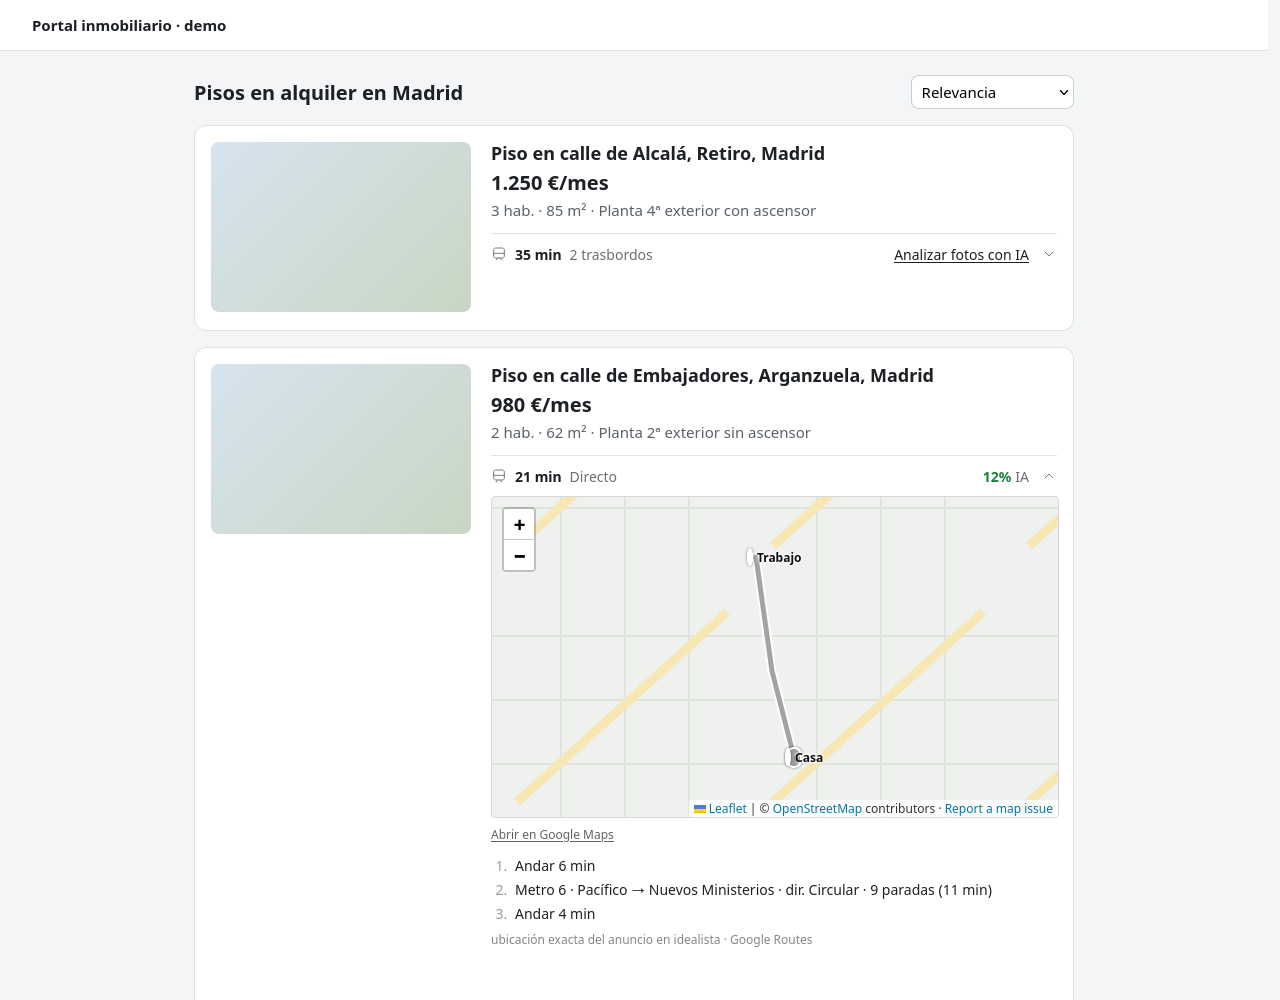
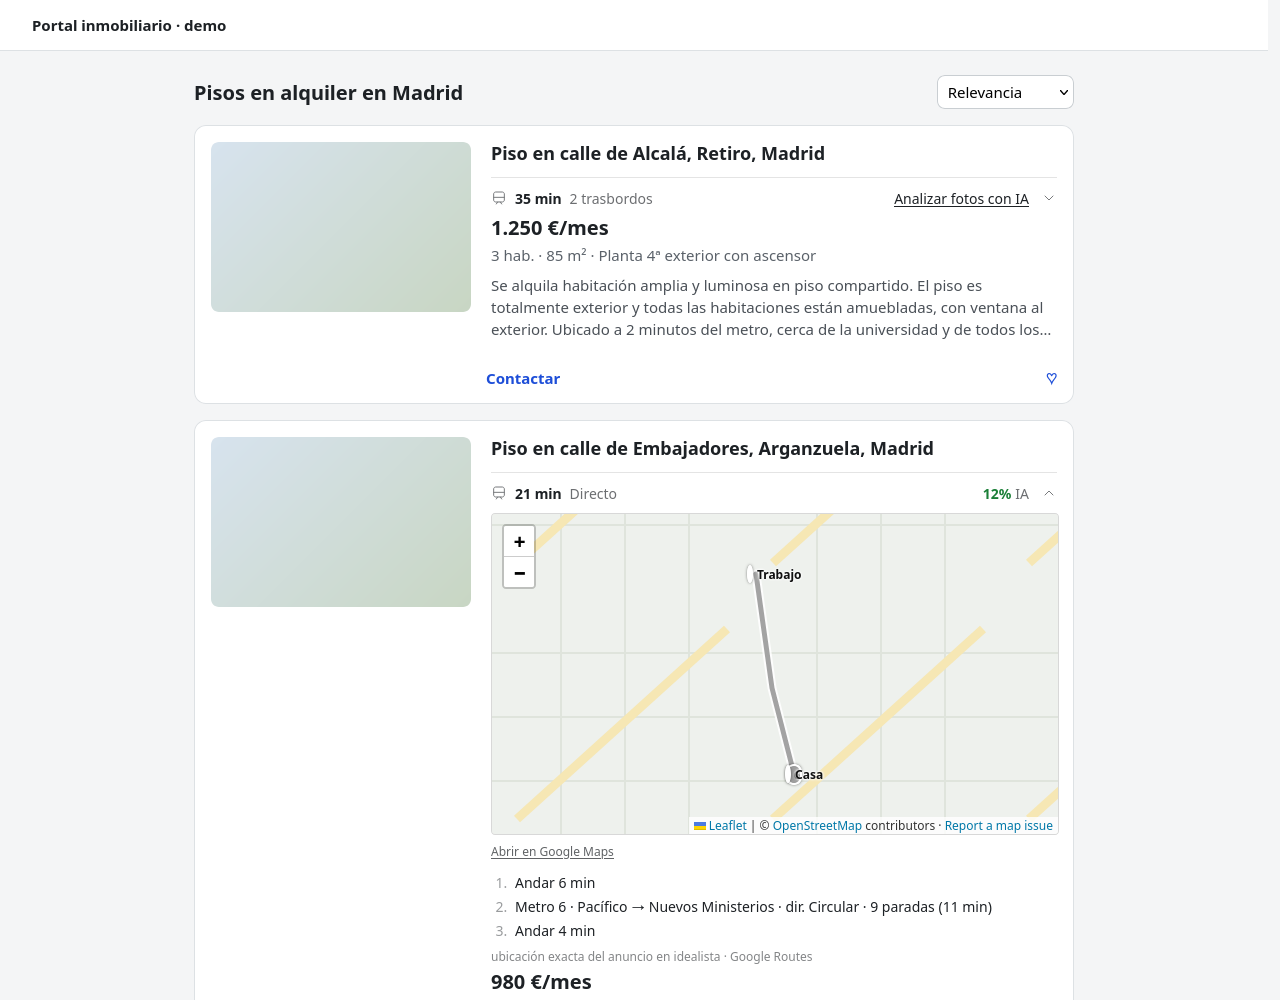
Reserve room for the card's footer so expanded text no longer overlaps Contactar
The card's own bottom row is pinned to its bottom edge; with the card growing to fit our row the description ran into it. The space is now reserved on the card instead of on the small title container, which also removes a blank gap under the commute row. The screenshot mock page reproduces the layout.

diff --git a/tools/screenshots/results.html b/tools/screenshots/results.html
@@ -7,24 +7,22 @@ header{background:#fff;border-bottom:1px solid #dde1e4;padding:14px 32px;font-we
 main{max-width:880px;margin:24px auto;padding:0 24px}
 .bar{display:flex;justify-content:space-between;align-items:center;margin-bottom:16px}.bar h1{font-size:20px;margin:0}
 select{font:inherit;padding:6px 10px;border:1px solid #c9ced2;border-radius:8px;background:#fff}
-article.item{display:flex;gap:20px;background:#fff;border:1px solid #dde1e4;border-radius:12px;padding:16px;margin-bottom:16px}
+article.item{position:relative;display:flex;gap:20px;background:#fff;border:1px solid #dde1e4;border-radius:12px;padding:16px;margin-bottom:16px}
 .pic{flex:none;width:260px;height:170px;border-radius:8px;background:linear-gradient(135deg,#d7e3ee,#c8d6c3)}
-.item-info-container{flex:1;min-width:0}.item-link{font-size:18px;font-weight:600;color:#1d2125;text-decoration:none}
+.col{flex:1;min-width:0}.item-link{font-size:18px;font-weight:600;color:#1d2125;text-decoration:none}
+.desc{margin-top:8px;color:#4a5057;display:-webkit-box;-webkit-line-clamp:3;-webkit-box-orient:vertical;overflow:hidden}
+.foot{position:absolute;left:291px;right:16px;bottom:14px;display:flex;justify-content:space-between;color:#1d4ed8;font-weight:600}
 .price{font-size:20px;font-weight:700;margin:6px 0}.det{color:#5a6169}
 </style></head><body>
 <header>Portal inmobiliario · demo</header>
 <main><div class="bar"><h1>Pisos en alquiler en Madrid</h1>
 <select aria-label="Ordenar"><option>Relevancia</option><option>Más recientes</option><option>Más baratos</option></select></div>
-<article class="item" data-element-id="105000001"><div class="pic"></div><div class="item-info-container">
-<a class="item-link" href="/inmueble/105000001/" title="Piso en calle de Alcalá, Retiro, Madrid">Piso en calle de Alcalá, Retiro, Madrid</a>
-<div class="price">1.250 €/mes</div><div class="det">3 hab. · 85 m² · Planta 4ª exterior con ascensor</div></div></article>
-<article class="item" data-element-id="105000002"><div class="pic"></div><div class="item-info-container">
-<a class="item-link" href="/inmueble/105000002/" title="Piso en calle de Embajadores, Arganzuela, Madrid">Piso en calle de Embajadores, Arganzuela, Madrid</a>
-<div class="price">980 €/mes</div><div class="det">2 hab. · 62 m² · Planta 2ª exterior sin ascensor</div></div></article>
-<article class="item" data-element-id="105000003"><div class="pic"></div><div class="item-info-container">
-<a class="item-link" href="/inmueble/105000003/" title="Piso en calle de Bravo Murillo, Tetuán, Madrid">Piso en calle de Bravo Murillo, Tetuán, Madrid</a>
-<div class="price">1.100 €/mes</div><div class="det">2 hab. · 70 m² · Planta 5ª exterior con ascensor</div></div></article>
-<article class="item" data-element-id="105000004"><div class="pic"></div><div class="item-info-container">
-<a class="item-link" href="/inmueble/105000004/" title="Piso en calle de Segovia, Centro, Madrid">Piso en calle de Segovia, Centro, Madrid</a>
-<div class="price">1.490 €/mes</div><div class="det">3 hab. · 92 m² · Planta 3ª interior con ascensor</div></div></article>
+<article class="item" data-element-id="105000001"><div class="pic"></div><div class="col"><div class="item-info-container"><a class="item-link" href="/inmueble/105000001/" title="Piso en calle de Alcalá, Retiro, Madrid">Piso en calle de Alcalá, Retiro, Madrid</a></div>
+<div class="price">1.250 €/mes</div><div class="det">3 hab. · 85 m² · Planta 4ª exterior con ascensor<p class="desc">Se alquila habitación amplia y luminosa en piso compartido. El piso es totalmente exterior y todas las habitaciones están amuebladas, con ventana al exterior. Ubicado a 2 minutos del metro, cerca de la universidad y de todos los servicios.</p></div></div><div class="foot"><span>Contactar</span><span>♡</span></div></article>
+<article class="item" data-element-id="105000002"><div class="pic"></div><div class="col"><div class="item-info-container"><a class="item-link" href="/inmueble/105000002/" title="Piso en calle de Embajadores, Arganzuela, Madrid">Piso en calle de Embajadores, Arganzuela, Madrid</a></div>
+<div class="price">980 €/mes</div><div class="det">2 hab. · 62 m² · Planta 2ª exterior sin ascensor<p class="desc">Se alquila habitación amplia y luminosa en piso compartido. El piso es totalmente exterior y todas las habitaciones están amuebladas, con ventana al exterior. Ubicado a 2 minutos del metro, cerca de la universidad y de todos los servicios.</p></div></div><div class="foot"><span>Contactar</span><span>♡</span></div></article>
+<article class="item" data-element-id="105000003"><div class="pic"></div><div class="col"><div class="item-info-container"><a class="item-link" href="/inmueble/105000003/" title="Piso en calle de Bravo Murillo, Tetuán, Madrid">Piso en calle de Bravo Murillo, Tetuán, Madrid</a></div>
+<div class="price">1.100 €/mes</div><div class="det">2 hab. · 70 m² · Planta 5ª exterior con ascensor<p class="desc">Se alquila habitación amplia y luminosa en piso compartido. El piso es totalmente exterior y todas las habitaciones están amuebladas, con ventana al exterior. Ubicado a 2 minutos del metro, cerca de la universidad y de todos los servicios.</p></div></div><div class="foot"><span>Contactar</span><span>♡</span></div></article>
+<article class="item" data-element-id="105000004"><div class="pic"></div><div class="col"><div class="item-info-container"><a class="item-link" href="/inmueble/105000004/" title="Piso en calle de Segovia, Centro, Madrid">Piso en calle de Segovia, Centro, Madrid</a></div>
+<div class="price">1.490 €/mes</div><div class="det">3 hab. · 92 m² · Planta 3ª interior con ascensor<p class="desc">Se alquila habitación amplia y luminosa en piso compartido. El piso es totalmente exterior y todas las habitaciones están amuebladas, con ventana al exterior. Ubicado a 2 minutos del metro, cerca de la universidad y de todos los servicios.</p></div></div><div class="foot"><span>Contactar</span><span>♡</span></div></article>
 <script src="/content.js"></script></main></body></html>

diff --git a/content.css b/content.css
@@ -52,7 +52,9 @@
 /* The card's own bottom row (Contactar / Ver teléfono) is absolutely positioned and relies on a fixed height to
    stay clear of the text above it. With our row inside, the text column gets taller, so keep that row's space. */
 .icm-host.icm-host { height: auto; max-height: none; overflow: visible; }
-.icm-host.icm-host:not(article) { padding-bottom: 48px; box-sizing: border-box; }
+/* The card's own footer (contact button, icons) is pinned to the card's bottom edge. With the card growing to fit our row, that
+   footer lands on the last lines of the text, so the card keeps room for it. Not the title container: the text isn't inside it. */
+article.icm-host.icm-host { padding-bottom: 48px; box-sizing: border-box; }
 
 .icm-detail { margin: 12px 0 16px; }
 .icm-detail .icm-badge.icm-badge { margin-top: 0; }
